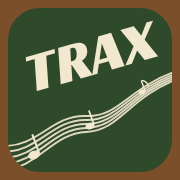
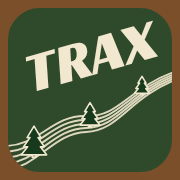
TRAX v22: evergreen trees with cream outline replace the notes on the staff trail
Claude-Session: https://claude.ai/code/session_01YHW9UU8UgqY4FsX1PHGbag

Changed region(s): [[0.1111, 0.6944, 0.2778, 0.8889], [0.4444, 0.5556, 0.5556, 0.7222], [0.75, 0.4167, 0.8333, 0.5278]]

diff --git a/index.html b/index.html
@@ -142,12 +142,7 @@ details summary{cursor:pointer;font:700 20px "Barlow Semi Condensed",sans-serif;
     <div>
       <h1 class="logo" aria-label="TRAX"><span class="ic" aria-hidden="true"><svg viewBox="0 0 164 164">
   <g fill="none" stroke="#f2e8cf" stroke-linecap="round" opacity=".9"><path d="M-6 138.0 C 30 139.3, 44 106.7, 78 108.0 C 112 109.3, 120 78.7, 172 62.0" stroke-width="1.9"/><path d="M-6 144.0 C 30 144.7, 44 111.3, 78 112.0 C 112 112.7, 120 81.3, 172 64.0" stroke-width="1.9"/><path d="M-6 150.0 C 30 150.0, 44 116.0, 78 116.0 C 112 116.0, 120 84.0, 172 66.0" stroke-width="1.9"/><path d="M-6 156.0 C 30 155.3, 44 120.7, 78 120.0 C 112 119.3, 120 86.7, 172 68.0" stroke-width="1.9"/><path d="M-6 162.0 C 30 160.7, 44 125.3, 78 124.0 C 112 122.7, 120 89.3, 172 70.0" stroke-width="1.9"/></g>
-  <g fill="#f2e8cf">
-    <g transform="translate(26 147) rotate(-20)"><ellipse rx="6" ry="4.2"/><rect x="4.5" y="-20" width="2" height="20"/></g>
-    <g transform="translate(82 118) rotate(-20)"><ellipse rx="4.6" ry="3.2"/><rect x="3.4" y="-15" width="1.7" height="15"/></g>
-    <g transform="translate(134 84) rotate(-20)"><ellipse rx="3.4" ry="2.4"/><rect x="2.5" y="-11" width="1.4" height="11"/><path d="M3.9 -11 q5 3 4 8" stroke="#f2e8cf" stroke-width="1.4" fill="none"/></g>
-  </g>
-</svg><span class="t">TRAX</span></span></h1>
+  <g transform="translate(26 148) scale(1.15)" stroke="#f2e8cf" stroke-width="1.39" stroke-linejoin="round" fill="#183a1c"><rect x="-1.6" y="-5" width="3.2" height="6" /><path d="M0 -26 L-6 -16 L-3.5 -16 L-9 -8 L-5.5 -8 L-11 -1 L11 -1 L5.5 -8 L9 -8 L3.5 -16 L6 -16 Z"/></g><g transform="translate(82 118) scale(0.9)" stroke="#f2e8cf" stroke-width="1.78" stroke-linejoin="round" fill="#183a1c"><rect x="-1.6" y="-5" width="3.2" height="6" /><path d="M0 -26 L-6 -16 L-3.5 -16 L-9 -8 L-5.5 -8 L-11 -1 L11 -1 L5.5 -8 L9 -8 L3.5 -16 L6 -16 Z"/></g><g transform="translate(134 86) scale(0.68)" stroke="#f2e8cf" stroke-width="2.35" stroke-linejoin="round" fill="#183a1c"><rect x="-1.6" y="-5" width="3.2" height="6" /><path d="M0 -26 L-6 -16 L-3.5 -16 L-9 -8 L-5.5 -8 L-11 -1 L11 -1 L5.5 -8 L9 -8 L3.5 -16 L6 -16 Z"/></g></svg><span class="t">TRAX</span></span></h1>
       <div class="ver" id="ver"></div>
     </div>
     <div class="act">
@@ -292,8 +287,8 @@ details summary{cursor:pointer;font:700 20px "Barlow Semi Condensed",sans-serif;
 
 <script>
 {
-const APP_VERSION = 21;                          // +1 with every new index.html
-const APP_UPDATED = 'Nov 25, 2026 · 3:10 PM ET';  // when this version was made
+const APP_VERSION = 22;                          // +1 with every new index.html
+const APP_UPDATED = 'Nov 25, 2026 · 3:15 PM ET';  // when this version was made
 const $ = s => document.querySelector(s);
 $('#ver').innerHTML = `<b>v${APP_VERSION}</b> · Updated ${APP_UPDATED}`;
 const LS = {
